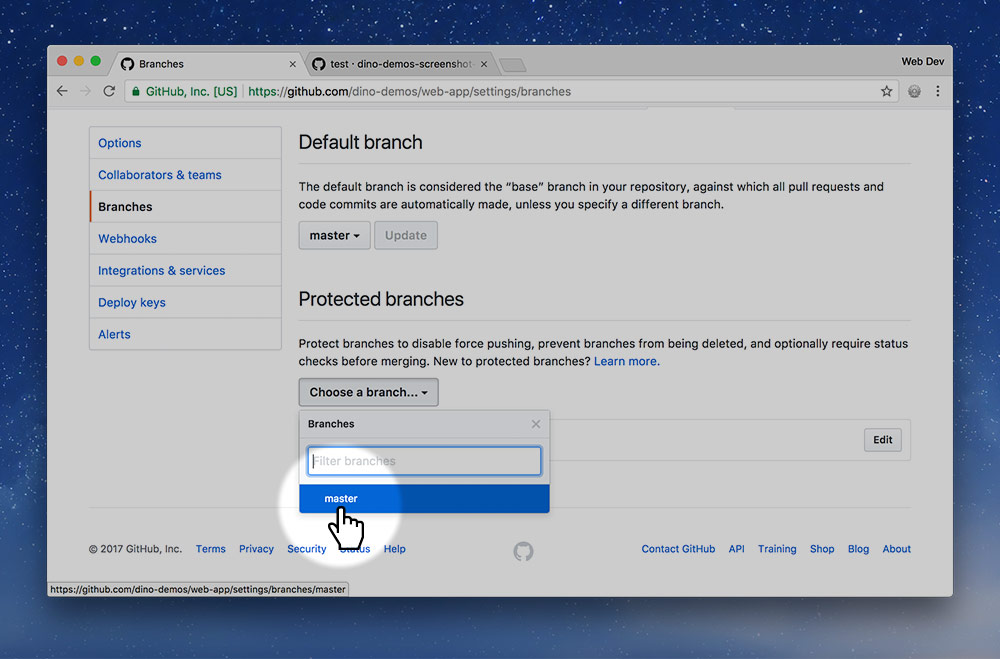
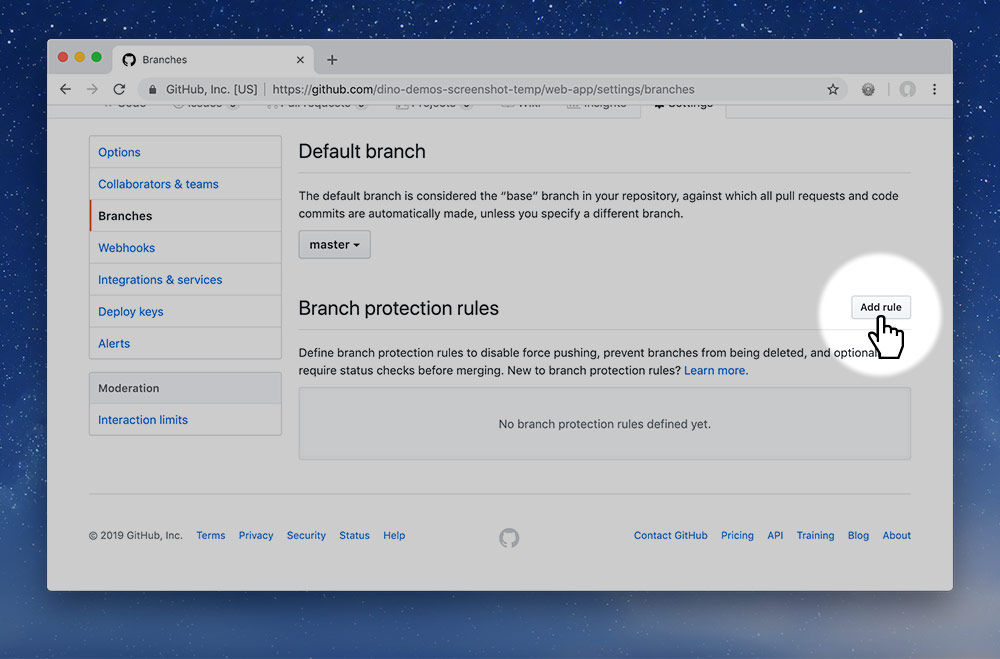
Update the GitHub project setup lesson

diff --git a/github-project-setup.md b/github-project-setup.md
@@ -158,7 +158,7 @@ steps:
 
       ![](protect-master.jpg)
 
-      A little bit down the page is a “Protected branches” repository. In the “Choose a branch…” button select “master”.
+      A little bit down the page is a “Branch protection rules” repository. Press the  “Add rule” button.
 
       ![](protect-settings.jpg)
 
@@ -166,7 +166,7 @@ steps:
 
       Select the following options on the screen and save:
 
-      1. *“Protect this branch”*
+      1. Type `master` into the *“Apply rule to”* input field
         <br>This will prevent you from committing and pushing to the `master` branch—you’ll have to create a different branch.
       2. *“Require pull request reviews before merging”*
         <br>This will require everybody to get someone else to approve their code changes before they can be implemented into the `master` branch.

diff --git a/week-01.md b/week-01.md
@@ -38,7 +38,6 @@ tasks:
     url: github-project-setup
     type: lesson
     pair: true
-    disabled: true
   - title: "Web app UX"
     url: "https://github.com/acgd-webdev-6/web-app-ux"
     graded-as: web-app-ux
